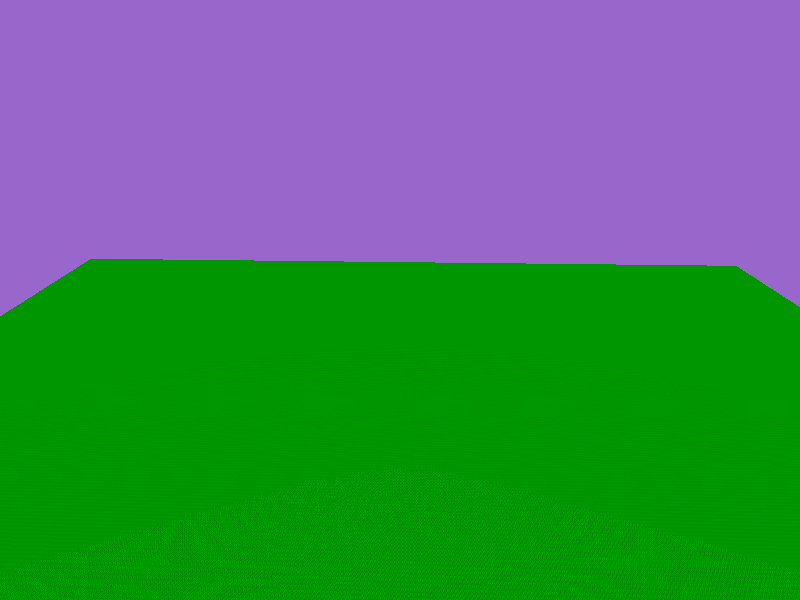
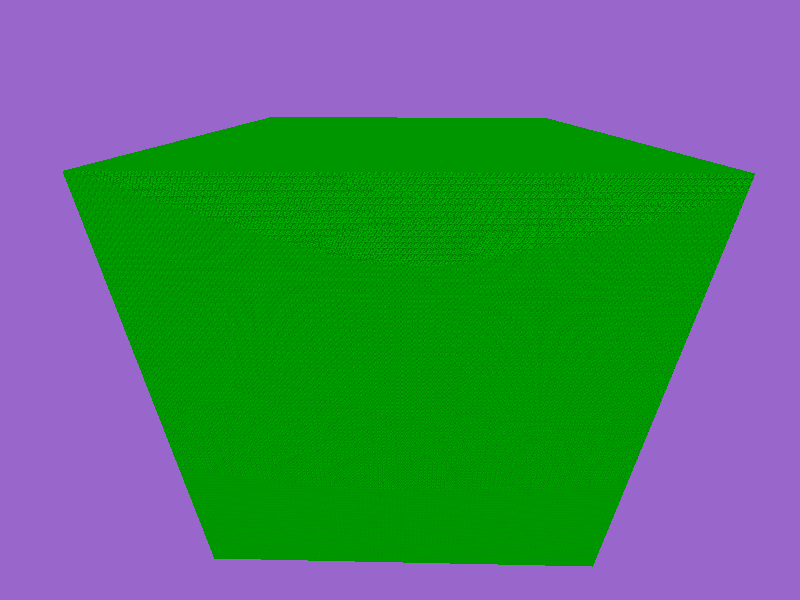
Add height to the world
So far we've been rendering a flat world on the X-Z plane, but we'll
want to have elevation to make the world look more interesting.

This change adds a configurable height to the world. Right now we're
creating a 100x100x100 cube, but we'll change that in upcoming commits.

diff --git a/src/world.rs b/src/world.rs
@@ -5,14 +5,17 @@ const MOVE_SPEED: f32 = 0.5;
 
 pub(crate) struct World {
     x_width: u32,
+    y_height: u32,
     z_depth: u32,
     camera: Camera,
 }
 
 impl World {
-    pub(crate) fn new(x_width: u32, z_depth: u32) -> Self {
+    pub(crate) fn new(x_width: u32, y_height: u32, z_depth: u32) -> Self {
+        let starting_position = Vec3((x_width / 2) as f32, (y_height + 1) as f32, 0.0);
+
         let camera = Camera {
-            position: Vec3(0.0, 0.0, 0.0),
+            position: starting_position,
             velocity: Vec3(0.0, 0.0, 0.0),
             heading: 0.0,
             pitch: 0.0,
@@ -20,6 +23,7 @@ impl World {
 
         Self {
             x_width,
+            y_height,
             z_depth,
             camera,
         }
@@ -33,11 +37,16 @@ impl World {
     pub(crate) fn block_positions(&self) -> impl Iterator<Item = Vec3> {
         let x_start = 0;
         let x_end = self.x_width;
+        let y_start = 0;
+        let y_end = self.y_height;
         let z_start = 0;
         let z_end = self.z_depth;
 
-        (x_start..x_end)
-            .flat_map(move |x| (z_start..z_end).map(move |z| Vec3(x as f32, -2.0, z as f32)))
+        (x_start..x_end).flat_map(move |x| {
+            (y_start..y_end).flat_map(move |y| {
+                (z_start..z_end).map(move |z| Vec3(x as f32, y as f32, z as f32))
+            })
+        })
     }
 
     pub(crate) fn start_moving_forward(&mut self) {

diff --git a/src/main.rs b/src/main.rs
@@ -24,7 +24,7 @@ fn main() {
     let event_loop = EventLoop::new().unwrap();
     let mut renderer = Renderer::new(&event_loop, options.windowed);
 
-    let mut world = World::new(1000, 1000);
+    let mut world = World::new(100, 100, 100);
     renderer.update_block_cache(world.block_positions());
 
     let mut last_instant = Instant::now();
